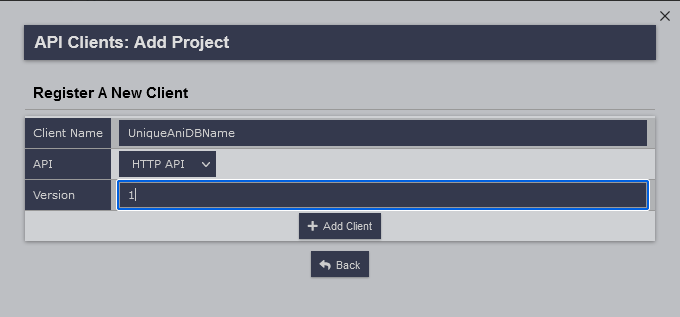
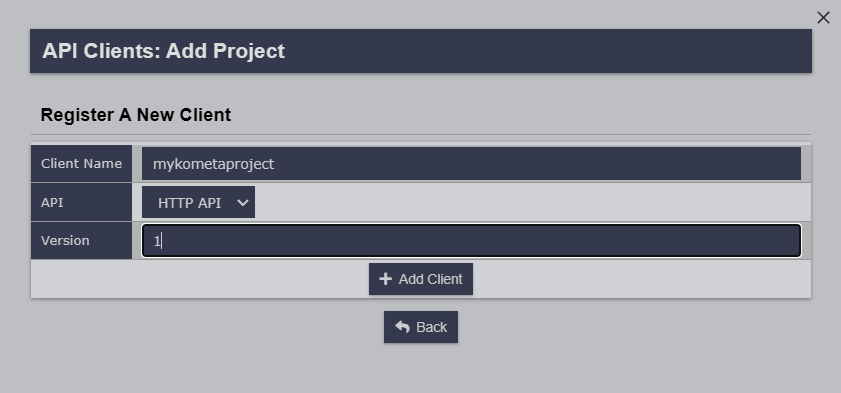
anidb case sensitivity (#2436)

diff --git a/docs/config/anidb.md b/docs/config/anidb.md
@@ -23,7 +23,7 @@ anidb:
 
 | Attribute          | Allowed Values                                                                                | Default |                 Required                 |
 |:-------------------|:----------------------------------------------------------------------------------------------|:--------|:----------------------------------------:|
-| `client`           | AniDB Client Name                                                                             | N/A     | :fontawesome-solid-circle-xmark:{ .red } |
+| `client`           | AniDB Client Name. **must be lowercase**                                                      | N/A     | :fontawesome-solid-circle-xmark:{ .red } |
 | `version`          | AniDB Client Version                                                                          | N/A     | :fontawesome-solid-circle-xmark:{ .red } |
 | `language`         | [ISO 639-1 Code](https://en.wikipedia.org/wiki/List_of_ISO_639-1_codes) of the User Language. | en      | :fontawesome-solid-circle-xmark:{ .red } |
 | `cache_expiration` | Number of days before each cache mapping expires and has to be re-cached.                     | 60      | :fontawesome-solid-circle-xmark:{ .red } |
@@ -48,7 +48,8 @@ matter.
 
     ![AniDB Add Client](images/anidb-2.png)
 
-6. Come up with and enter a unique to AniDB Client Name
+6. Come up with and enter a unique to AniDB Client Name.
+
 
 7. Select `HTTP API` in the API Dropdown
 
@@ -56,11 +57,18 @@ matter.
 
     ![AniDB Client Page](images/anidb-3.png)
 
+???+ example "Case Sensitivity"
+
+    When you press the "Add Client" button, the next page may display your client name as Title Case (i.e. `Mykometaproject` instead of `mykometaproject`.
+
+    Regardless of what the AniDB site shows, **you must enter your client name in full lowercase**
+   
+
 9. Put the Client Name and Client Version you just created in your config.yml as `client` and `version` respectively.
 
     ```yaml
     anidb:
-      client: UniqueAniDBName
+      client: mykometaproject
       version: 1
       language: en
       cache_expiration: 60